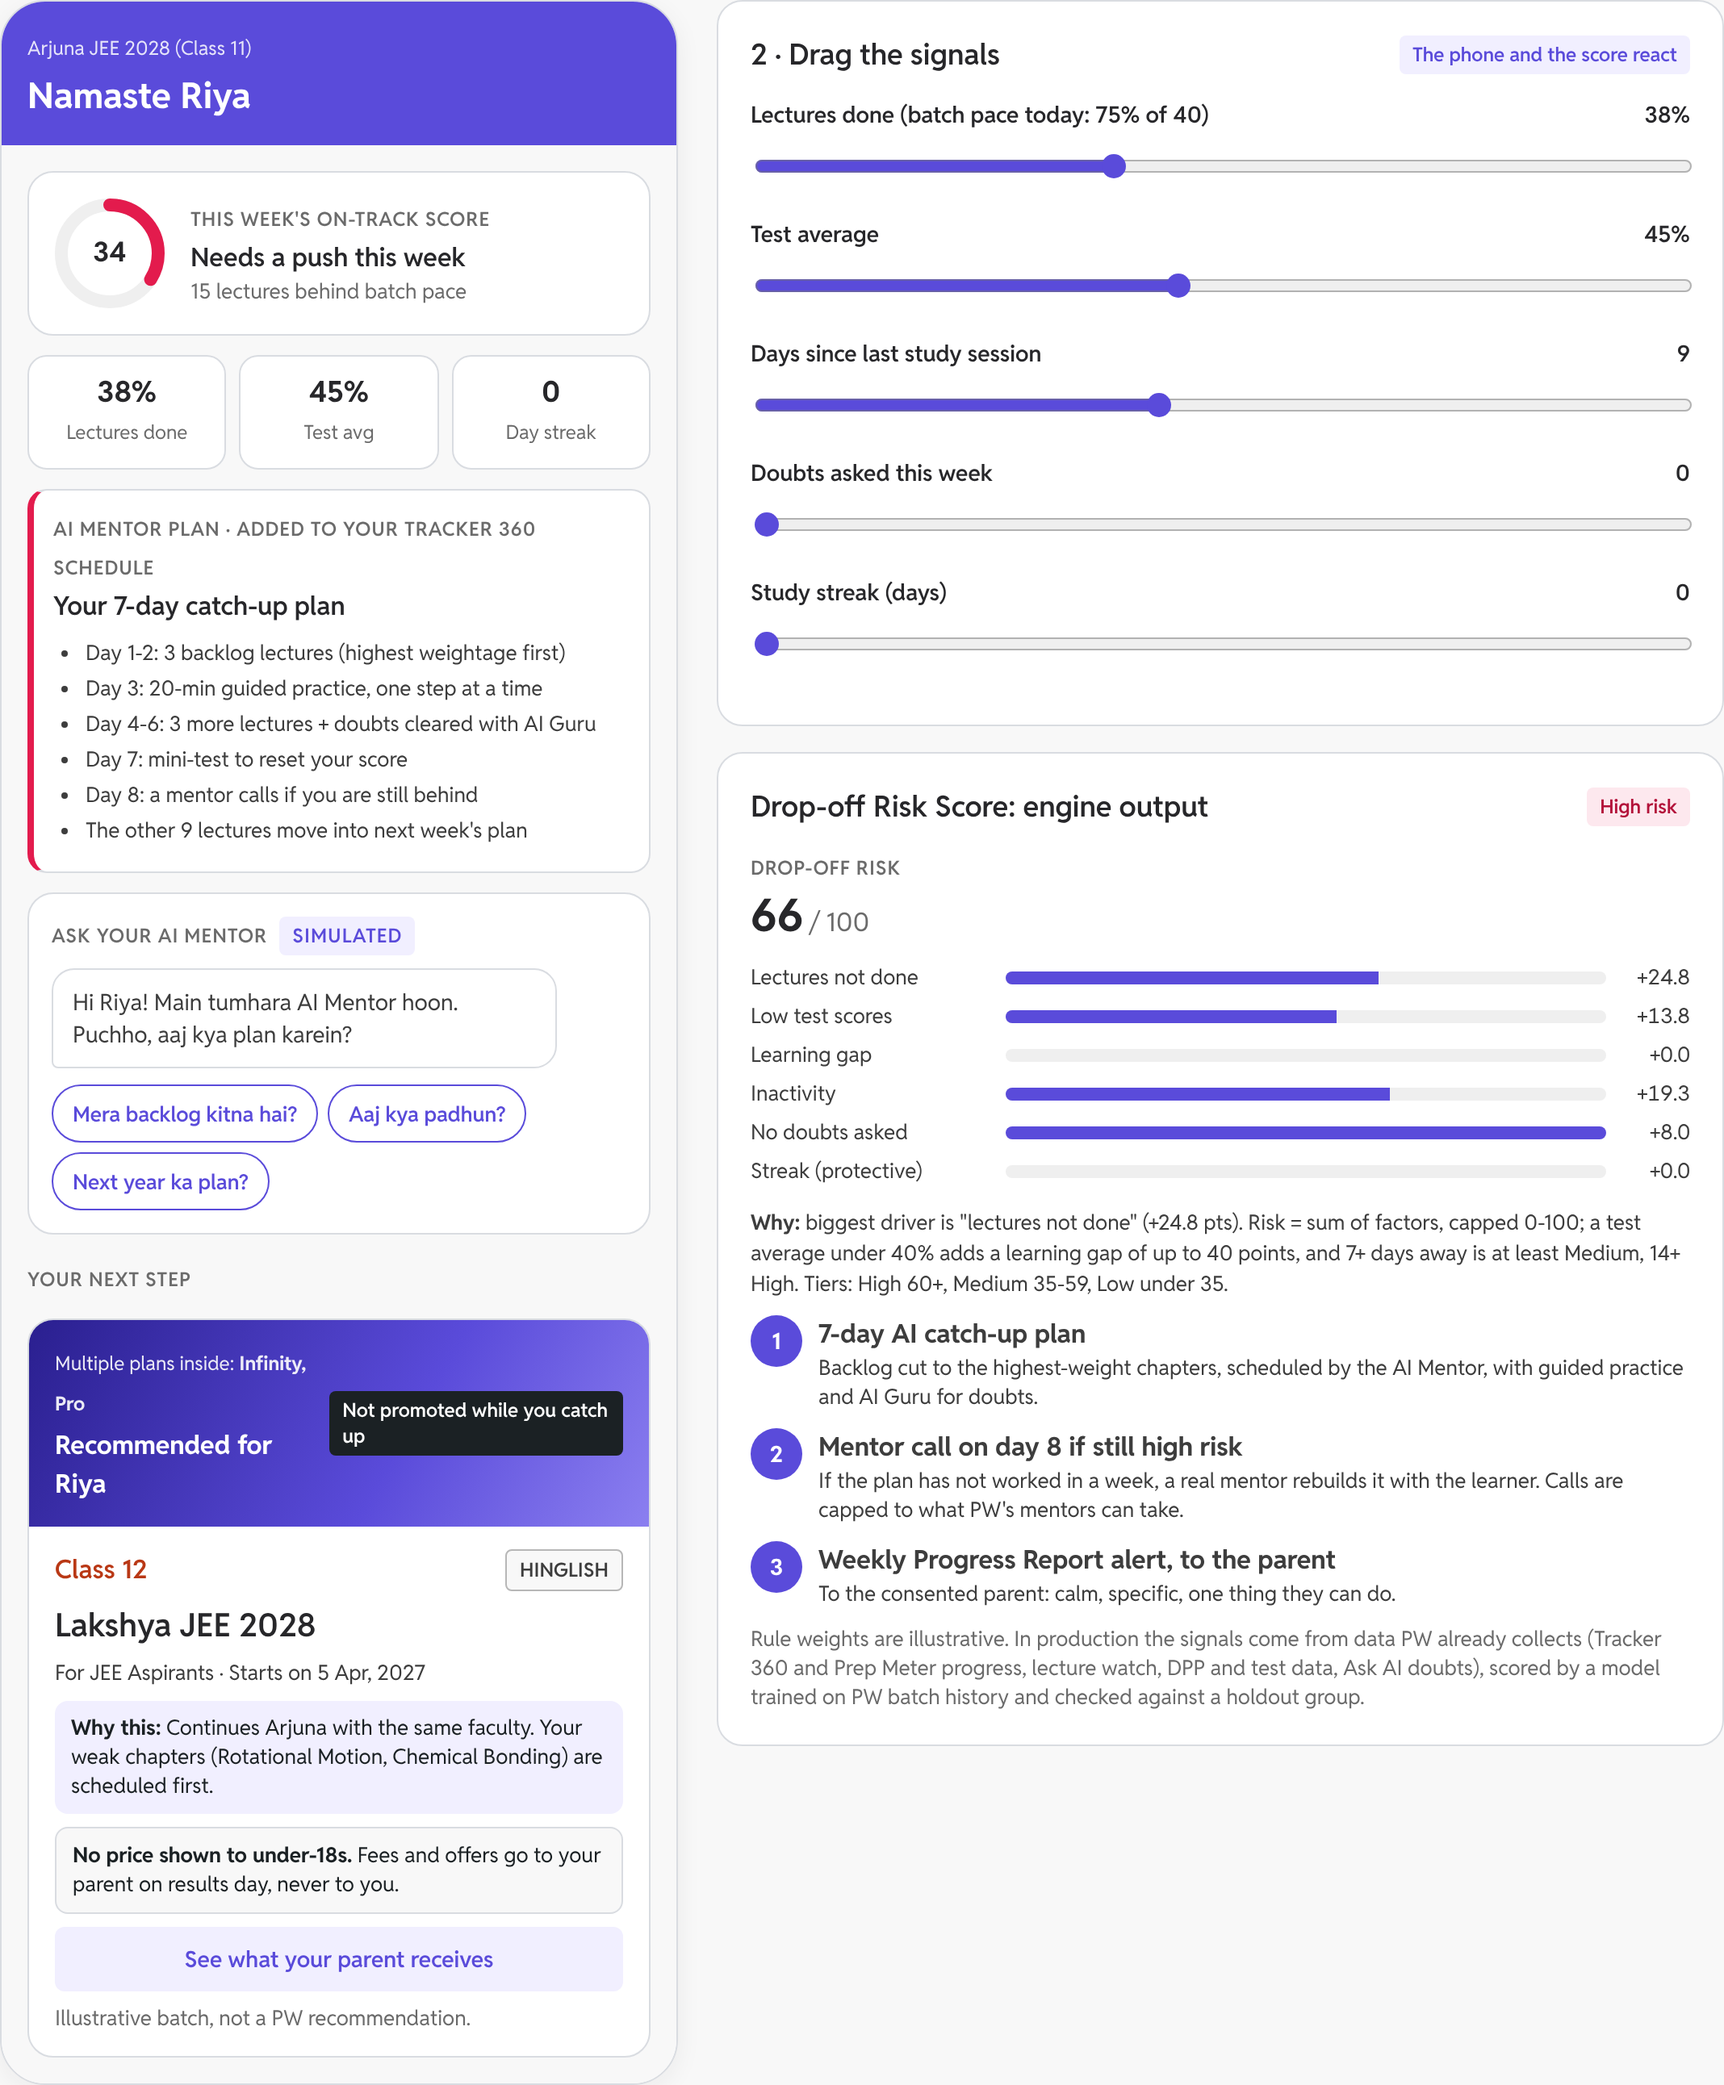
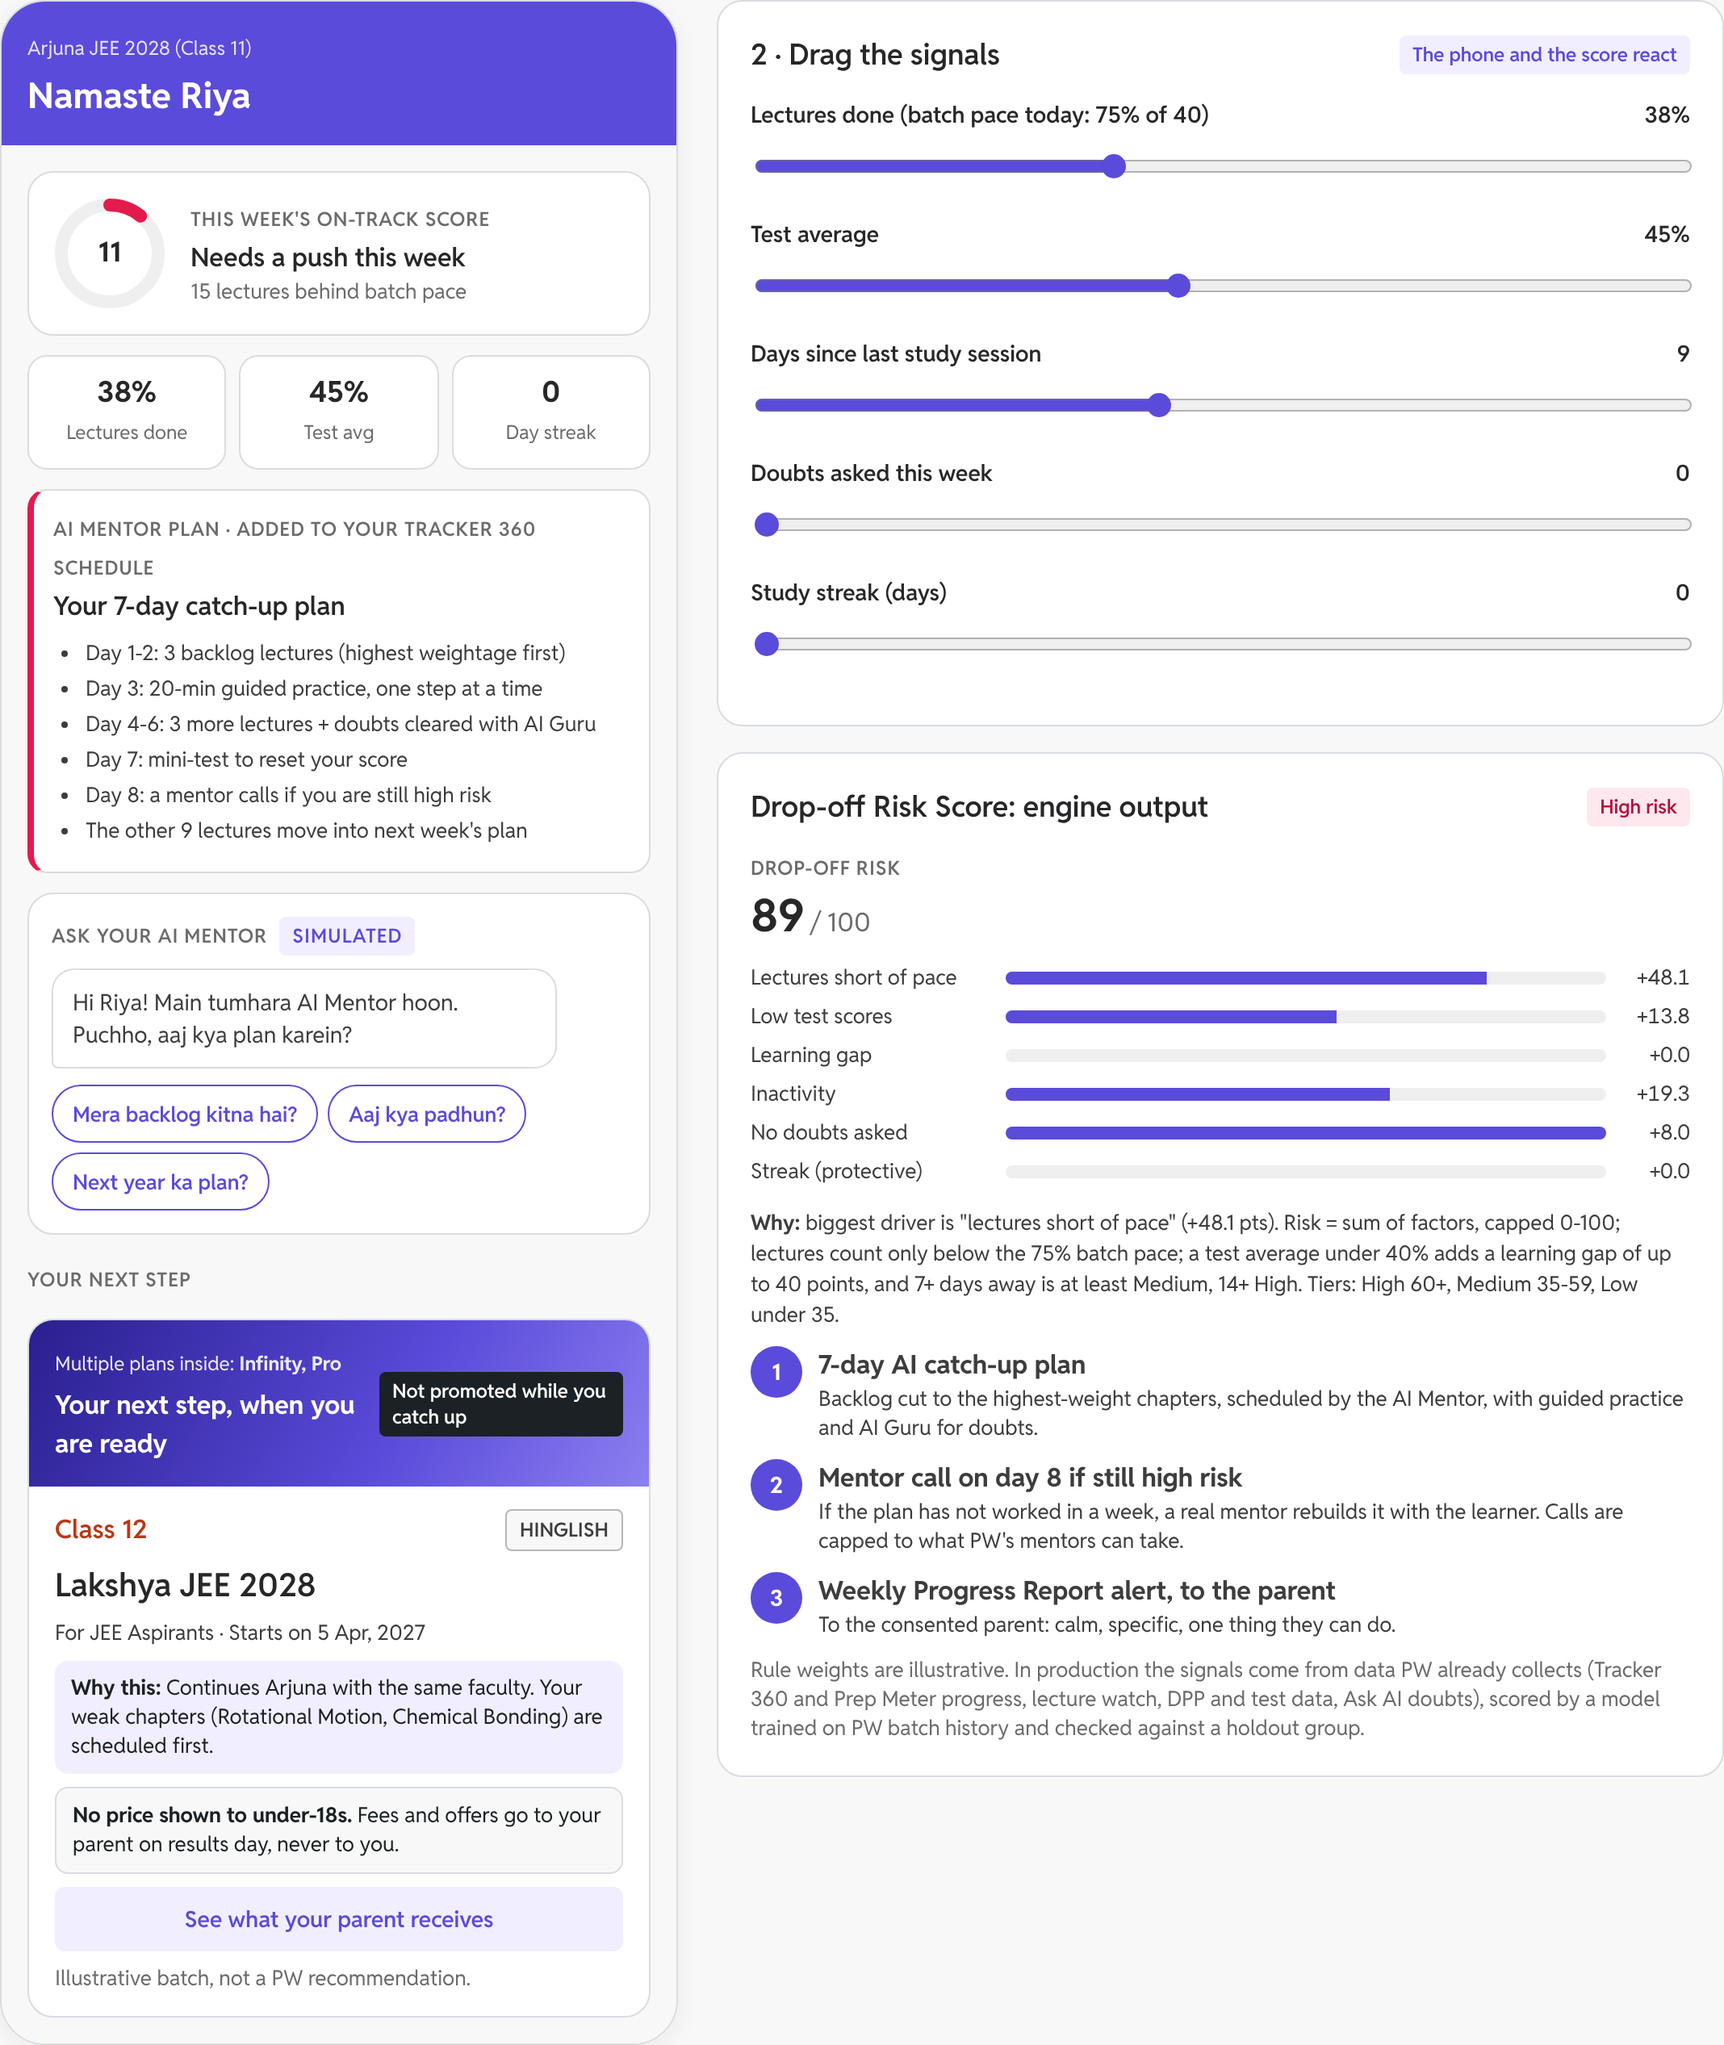
PW study: recapture screenshots after the third review
The phone and tablet screenshots now show the pace-based factor ("Lectures
short of pace"), day-8 escalation "if you are still high risk", the held
offer ("Your next step, when you are ready"), the report header without
nested brackets and the dashboard's allocation note. Heights updated.

Claude-Session: https://claude.ai/code/session_01EmR2EkjyiFohUFTsKASpxN

diff --git a/pw-study/index.html b/pw-study/index.html
@@ -496,9 +496,9 @@ footer h3{color:#fff}
       <div class="hero-ctas" style="margin-top:6px"><a class="btn btn-primary" href="/pw-study/prototype">Open full screen</a></div></div>
     <iframe class="proto-frame" src="/pw-study/prototype?embed=1" title="Learner Retention Engine working prototype" loading="lazy"></iframe>
     <div class="shots mob-only">
-      <figure><img src="/pw-study/img/student.png" alt="Prototype student app: on-track score, 7-day catch-up plan, AI Mentor chat, a next-step recommendation with no price for an under-18, and the drop-off risk score with its reasons" loading="lazy" width="2136" height="2584"><figcaption>Student app: a plan, not a warning</figcaption></figure>
+      <figure><img src="/pw-study/img/student.png" alt="Prototype student app: on-track score, 7-day catch-up plan, AI Mentor chat, a next-step recommendation with no price for an under-18, and the drop-off risk score with its reasons" loading="lazy" width="2136" height="2534"><figcaption>Student app: a plan, not a warning</figcaption></figure>
       <figure><img src="/pw-study/img/pulse.png" alt="Weekly Progress Report on WhatsApp, sent to a parent of a 16-year-old" loading="lazy" width="660" height="1125"><figcaption>Weekly Progress Report, to the right person</figcaption></figure>
-      <figure><img src="/pw-study/img/console.png" alt="Renewals Dashboard action table grouping learners by risk, age and final year, with the extra fees each group is expected to bring in and the maths for the selected group" loading="lazy" width="1061" height="1461"><figcaption>Renewals Dashboard: the Monday screen</figcaption></figure>
+      <figure><img src="/pw-study/img/console.png" alt="Renewals Dashboard action table grouping learners by risk, age and final year, with the extra fees each group is expected to bring in and the maths for the selected group" loading="lazy" width="1061" height="1488"><figcaption>Renewals Dashboard: the Monday screen</figcaption></figure>
     </div>
   </div>
 </section>
